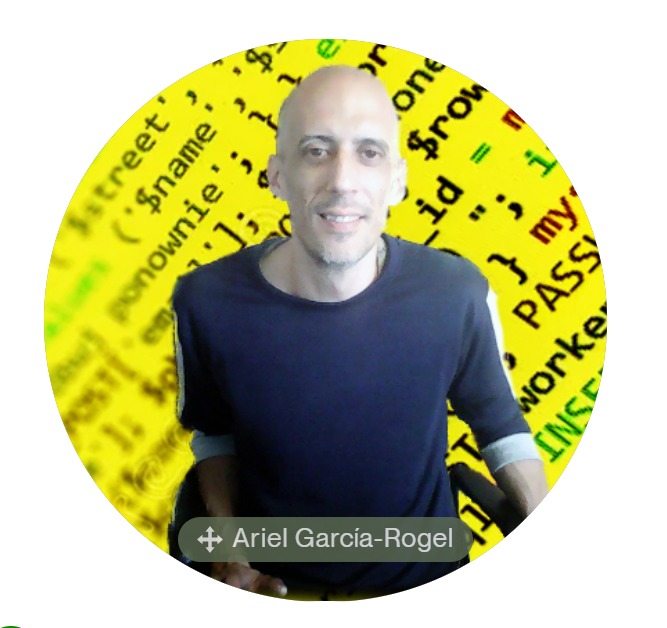
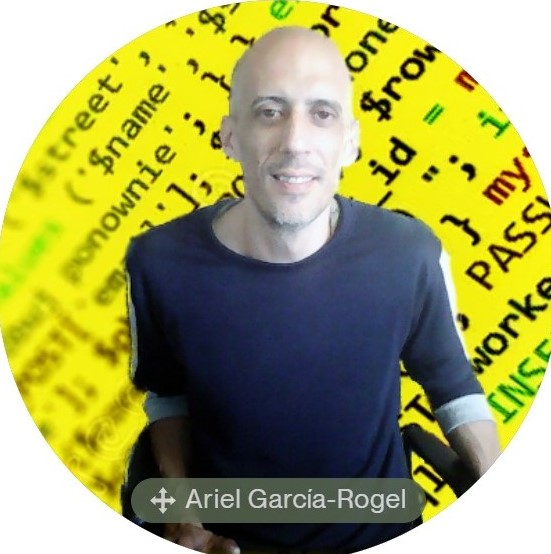
230605

diff --git a/css/styles.css b/css/styles.css
@@ -336,7 +336,11 @@ justify-content: center
         background-color: red;
     }
 
+#foto{
 
+    border-radius: 80%;
+    width: 90%;
+}
 
 
     
